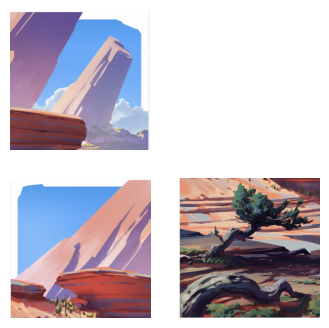
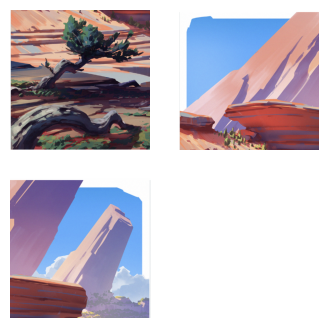
basic image puzzle solving works - have to chnage the method - still uses numbers to represent image tiles

diff --git a/main.py b/main.py
@@ -6,7 +6,7 @@ from sliding_puzzle_env import SlidingPuzzleEnv
 from tqdm import tqdm
 from tabulate import tabulate
 
-def save_puzzle_state(env, state, filename):
+"""def save_puzzle_state(env, state, filename):
     """ Saves a visualization of the puzzle state as an image. """
     grid_size = env.grid_size
     fig, ax = plt.subplots(grid_size, grid_size, figsize=(4, 4))
@@ -18,7 +18,7 @@ def save_puzzle_state(env, state, filename):
             ax[i, j].axis("off")
     plt.savefig(filename, bbox_inches='tight', pad_inches=0.1)
     plt.close()
-    print(f"Saved puzzle state to {filename}")
+    print(f"Saved puzzle state to {filename}")"""
 
 def main():
     # Load tile images
@@ -26,10 +26,10 @@ def main():
     tile_paths = [os.path.join(tile_folder, f"tile_{i}.png") for i in range(4)]
 
     # Ensure tiles exist
-    for path in tile_paths:
-        if not os.path.exists(path):
-            print(f"ERROR: Tile {path} not found!")
-            return
+    #for path in tile_paths:
+    #    if not os.path.exists(path):
+    #       print(f"ERROR: Tile {path} not found!")
+    #        return
 
     # Initialize the environment with image tiles
     puzzle_size = 2
@@ -81,7 +81,8 @@ def main():
     done = False
 
     # Save the start state image
-    save_puzzle_state(env, state, "start_state.png")
+    #save_puzzle_state(env, state, "start_state.png")
+    env.render(save_path="start_state.png")
 
     while not done:
         env.render()
@@ -93,9 +94,9 @@ def main():
     print("\nPuzzle solved!")
 
     # Save the solved state image
-    save_puzzle_state(env, state, "solved_state.png")
-
-    env.render()
+    #save_puzzle_state(env, state, "solved_state.png")
+    #env.render()
+    env.render(save_path="solved_state.png")
 
 if __name__ == "__main__":
     main()

diff --git a/sliding_puzzle_env.py b/sliding_puzzle_env.py
@@ -62,8 +62,8 @@ class SlidingPuzzleEnv(gym.Env):
 
         return np.array(self.state), reward, done, {}
 
-    def render(self, mode='human'):
-        """Displays the puzzle using image tiles instead of numbers."""
+    def render(self, mode='human', save_path=None):
+        """Displays the puzzle using image tiles instead of numbers, with an option to save."""
         fig, ax = plt.subplots(self.grid_size, self.grid_size, figsize=(4, 4))
         for i in range(self.grid_size):
             for j in range(self.grid_size):
@@ -71,7 +71,14 @@ class SlidingPuzzleEnv(gym.Env):
                 if self.state[idx] != self.empty_tile:
                     ax[i, j].imshow(self.tiles[self.state[idx]])
                 ax[i, j].axis("off")
-        plt.show()
+
+        if save_path:
+            plt.savefig(save_path, bbox_inches='tight', pad_inches=0.1)
+            print(f"Saved puzzle state to {save_path}")
+        else:
+            plt.show()
+        plt.close()
+
 
     def _create_solvable_puzzle(self):
         state = self.goal_state.copy()
